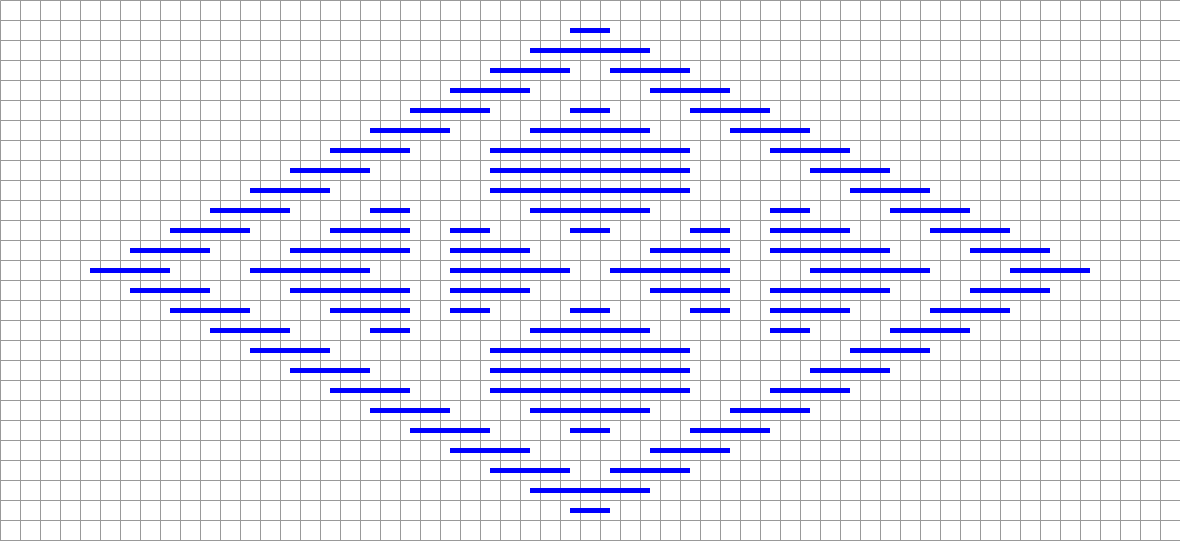
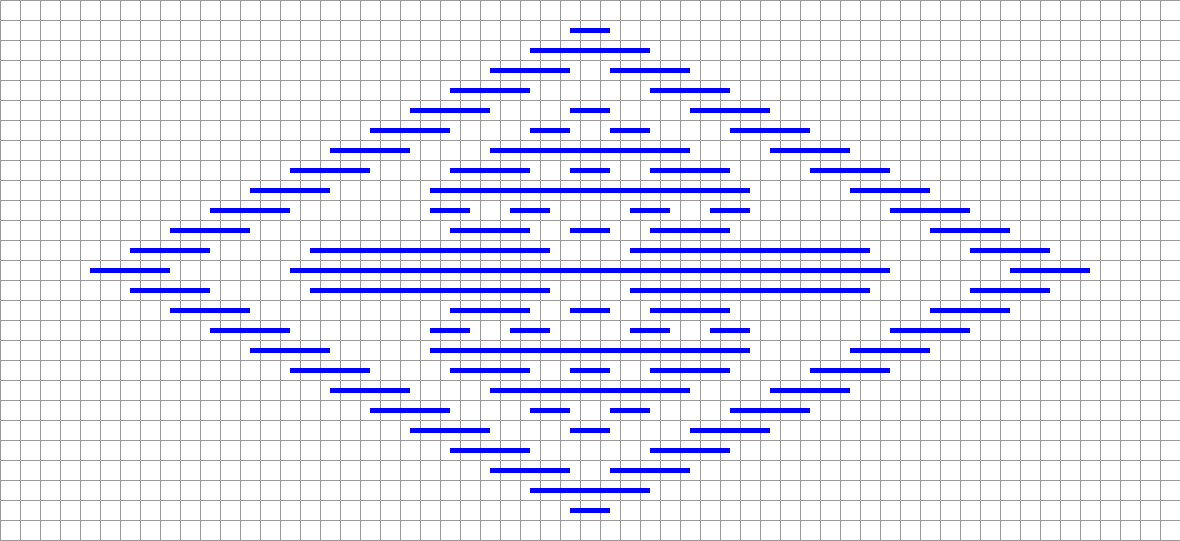
add random symmetric pattern generator

diff --git a/utils.js b/utils.js
@@ -76,30 +76,47 @@ function isDraw() {
   return Math.random() >= 0.5;
 }
 
+/**
+ * get random stitch count 1-max
+ * @param {number} max max stitch count
+ */
+function getStitchCount(max) {
+  return Math.floor(Math.random() * max) + 1;
+}
+
 function generatePattern(isSymmetric = true) {
-  // return str2;
   let str = "";
-  //for (let i = 0; i < 17; i++) {
-  let start = 9;
-  for (let i = 0; i < 8; i++) {
-    let j = 3;
-    str += "0".repeat(j);
-    start--;
-    j += start;
-    console.log(j);
-    str += (18 - j).toString(16);
-    // while (j <= 28) {
-    //   // if (isDraw()) {
-    //   str += 28 - j;
-    //   // } else {
-    //   //   str += "0";
-    //   // }
-    //   ++j;
-    // }
-    str += "\n";
+  let len = 1;
+  for (let i = 0; i < 9; i++) {
+    let strLine = "0".repeat(3);
+    let curLen = 0;
+    let prevSpace = true;
+    while (true) {
+      if (len - curLen === 1 && prevSpace) {
+        strLine += "1";
+        break;
+      }
+      if (len - curLen <= 1) break;
+      if (isDraw() && prevSpace) {
+        const sc = getStitchCount(len - curLen);
+        strLine += sc.toString(20);
+        curLen += sc + 1;
+        prevSpace = false;
+      } else {
+        if (!prevSpace) {
+          ++curLen;
+        }
+        strLine += "0";
+        ++curLen;
+        prevSpace = true;
+      }
+    }
+    len += 2;
+    str += strLine + "\n";
   }
-  // console.log(str);
-  return str2;
+  str = str.slice(0, -1);
+  console.log(str);
+  return str;
 }
 
 module.exports = {

diff --git a/Pattern.js b/Pattern.js
@@ -108,7 +108,7 @@ class Pattern {
           if (p === "0") {
             i++;
           } else {
-            const n = parseInt(p, 16) + 1;
+            const n = parseInt(p, 20) + 1;
             this._drawStitch(hasPrev ? ++i : i, y, n);
             i += n;
             hasPrev = true;
